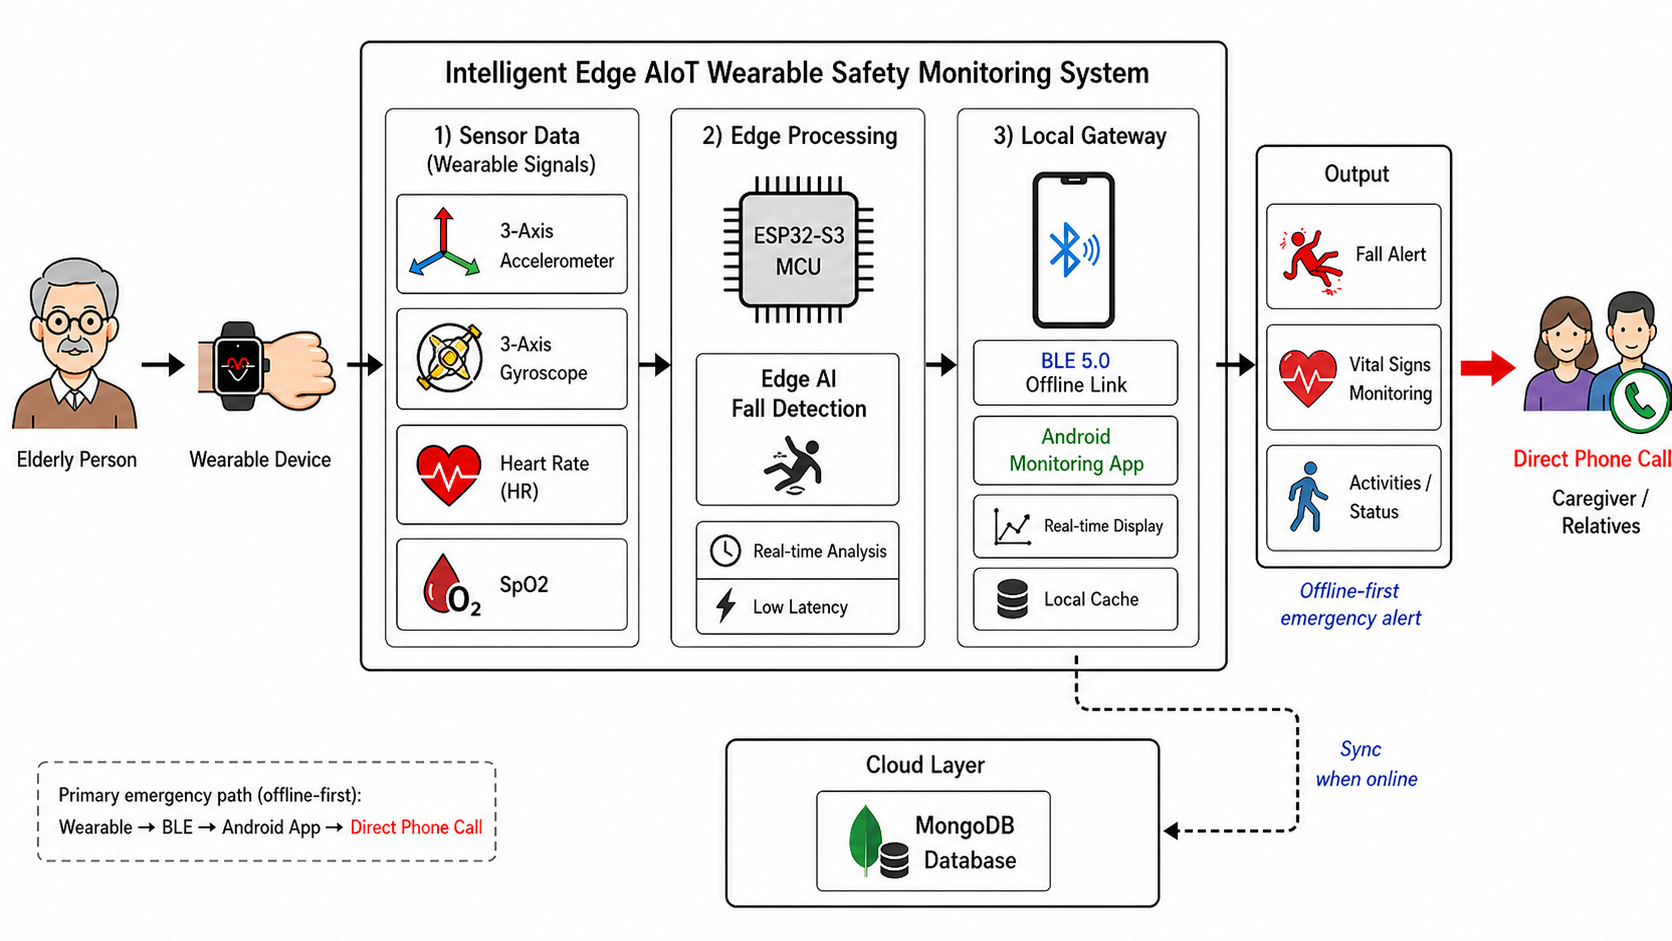
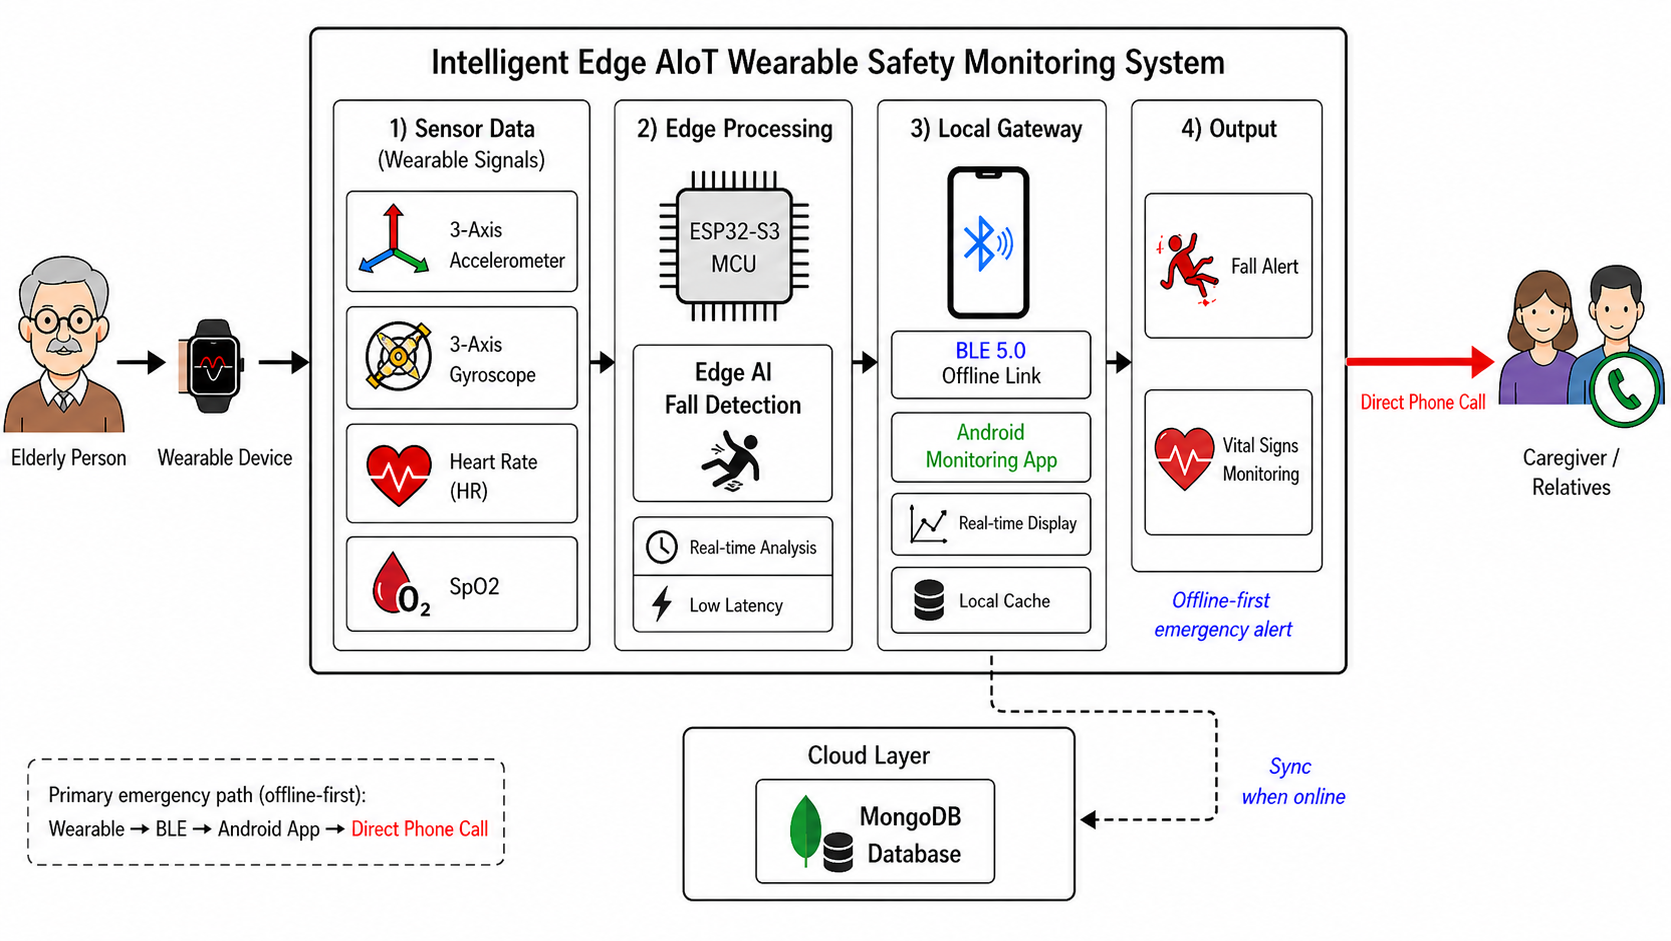
updated paper

Changed region(s): [[0.0, 0.0, 1.0, 0.9862], [0.0311, 0.8013, 0.3112, 0.9245], [0.778, 0.0308, 0.8091, 0.0616]]

diff --git a/paper/AIFD_wearable-device_VN.md b/paper/AIFD_wearable-device_VN.md
@@ -1,0 +1,80 @@
+# CareFall: Phát hiện Té ngã Tự động thông qua Thiết bị đeo và các Phương pháp AI
+
+**Tác giả:** Juan Carlos Ruiz-Garcia, Ruben Tolosana, Ruben Vera-Rodriguez, Carlos Moro
+**Đơn vị:** Đại học Tự hành Madrid (Universidad Autonoma de Madrid), Tây Ban Nha; Cartronic Group, Tây Ban Nha.
+**Email:** {juanc.ruiz, ruben.tolosana, ruben.vera}@uam.es; [email redacted]
+
+---
+
+## TÓM TẮT (ABSTRACT)
+Sự già hóa dân số đã dẫn đến số lượng các vụ té ngã ngày càng tăng trong xã hội, ảnh hưởng đến sức khỏe cộng đồng trên toàn thế giới. Bài báo này giới thiệu **CareFall**, một hệ thống phát hiện té ngã tự động (FDS) dựa trên các thiết bị đeo và các phương pháp Trí tuệ Nhân tạo (AI). CareFall xem xét các tín hiệu thời gian từ gia tốc kế (accelerometer) và con quay hồi chuyển (gyroscope) được trích xuất từ một chiếc đồng hồ thông minh (smartwatch). Hai phương pháp tiếp cận khác nhau được sử dụng để trích xuất đặc trưng và phân loại: i) dựa trên ngưỡng (threshold-based), và ii) dựa trên học máy (machine learning-based). Kết quả thực nghiệm trên hai cơ sở dữ liệu công khai cho thấy phương pháp dựa trên học máy - kết hợp thông tin từ cả gia tốc kế và con quay hồi chuyển - vượt trội hơn so với phương pháp dựa trên ngưỡng về độ chính xác (accuracy), độ nhạy (sensitivity) và độ đặc hiệu (specificity). Nghiên cứu này đóng góp vào việc thiết kế các giải pháp thông minh và thân thiện với người dùng nhằm giảm thiểu các hậu quả tiêu cực của việc té ngã ở người cao tuổi.
+
+---
+
+## 1. GIỚI THIỆU (INTRODUCTION)
+Sự già hóa dân số đang gia tăng trên toàn thế giới. Tổ chức Y tế Thế giới (WHO) coi té ngã ở người cao tuổi là một thách thức lớn đối với sức khỏe cộng đồng toàn cầu [20]. Trên thực tế, té ngã có thể ảnh hưởng tiêu cực đến chất lượng cuộc sống của người cao tuổi, gây ra các hậu quả nghiêm trọng về thể chất, tâm lý và xã hội, chẳng hạn như bầm tím, gãy xương, chấn thương, tổn thương vận động và thần kinh, hoặc thậm chí tử vong [2, 7, 25]. Vì lý do này, việc thiết kế và triển khai các công nghệ thân thiện với người dùng để phát hiện té ngã là vô cùng quan trọng.
+
+Trong những năm gần đây, các giải pháp như Hệ thống Đáp ứng Khẩn cấp Cá nhân (PERS) đã được đề xuất [3]. PERS là một hệ thống thủ công, theo đó một người sau khi ngã xuống đất phải nhấn nút cảnh báo (thường ở trong dây chuyền hoặc vòng tay), và một đội cấp cứu sẽ được cử đến ngay lập tức để hỗ trợ. Tuy nhiên, hệ thống này có thể không phải là một giải pháp tốt trong một số trường hợp, ví dụ như nếu người đó bị ngất hoặc mất ý thức do cú ngã và không thể nhấn nút khẩn cấp.
+
+Để khắc phục các hạn chế của PERS, nhiều loại Hệ thống Phát hiện Té ngã (FDS) đã được đề xuất trong thập kỷ qua, cung cấp các giải pháp tự động và thân thiện với người cao tuổi [7, 21]. Hầu hết các FDS dựa trên các thiết bị đeo [22], chẳng hạn như thắt lưng hoặc vòng tay tích hợp cảm biến gia tốc [16, 17, 24], các thiết bị dựa trên hình ảnh như camera giám sát trong nhà [11, 18], hoặc điện thoại thông minh [12, 15, 19], cùng nhiều loại khác.
+
+Bài báo này trình bày CareFall, một FDS tự động dựa trên các thiết bị đeo và các phương pháp Trí tuệ Nhân tạo (AI). Hình 1 cung cấp một mô tả đồ họa về CareFall. CareFall xem xét kịch bản trong đó đồng hồ thông minh được đeo trên cổ tay, thu thập thông tin liên quan đến các cảm biến quán tính của nó, chẳng hạn như gia tốc kế 3 trục và con quay hồi chuyển [8, 9], hoặc máy đo nhịp tim [13, 14]. Sau khi thông tin được thu thập bởi đồng hồ thông minh, các tín hiệu thời gian (tín hiệu gia tốc và con quay hồi chuyển) được sử dụng để trích xuất đặc trưng và phân loại. Hai phương pháp tiếp cận khác nhau được xem xét: i) dựa trên ngưỡng, và ii) dựa trên học máy. Trong trường hợp FDS phát hiện thấy một cú ngã, nó sẽ tự động cảnh báo cho các dịch vụ khẩn cấp.
+
+---
+
+## 2. PHƯƠNG PHÁP (METHODS)
+CareFall xem xét hai trong số các phương pháp phổ biến nhất để phát hiện té ngã trong tài liệu nghiên cứu [23]. Chúng được cung cấp dữ liệu từ các tín hiệu thời gian 3 trục của cảm biến gia tốc kế và con quay hồi chuyển. Tần số lấy mẫu của đồng hồ thông minh là từ 20-25Hz. Để phân tích đơn giản và theo thời gian thực, chúng tôi xem xét các cửa sổ thời gian riêng biệt dài **1 phút**.
+
+1.  **Dựa trên ngưỡng (Threshold-based):** Đây là một trong những giải pháp đơn giản nhất và ít tốn kém nhất về mặt tính toán để phát hiện té ngã. Nó dựa trên việc trích xuất các tín hiệu thời gian bổ sung từ các tín hiệu gia tốc và con quay hồi chuyển gốc như Vector Độ lớn Tín hiệu (SMV), Chỉ số Té ngã (FI) và Hướng dọc Tuyệt đối (AVD), cùng những chỉ số khác [4, 5]. Sau đó, một ngưỡng cụ thể được xác định cho mỗi chuỗi thời gian. Trong trường hợp giá trị tức thời của chuỗi thời gian vượt quá ngưỡng, đầu ra của hệ thống sẽ là "té ngã" (fall). Cần nhấn mạnh rằng, trong trường hợp xem xét đồng thời nhiều tín hiệu thời gian (ví dụ: SMV, FI và AVD), đầu ra cuối cùng của hệ thống sẽ dựa trên cơ chế biểu quyết đa số (majority voting) của tất cả các tín hiệu thời gian được xem xét.
+
+2.  **Dựa trên Học máy (Machine Learning-based):** Cách tiếp cận này tự động học các mẫu phân biệt cho nhiệm vụ bằng cách sử dụng dữ liệu. Từ 6 tín hiệu thời gian gốc (gia tốc kế 3 trục và con quay hồi chuyển) và 2 tín hiệu thời gian bổ sung (SMV của gia tốc và con quay hồi chuyển), chúng tôi trích xuất **11 đặc trưng toàn cục** cho mỗi cửa sổ thời gian (1 phút) liên quan đến thông tin thống kê: Trung bình (Mean), Phương sai (Variance), Trung vị (Median), Delta, Độ lệch chuẩn (Standard Deviation), Giá trị cực đại (Maximum Value), Giá trị cực tiểu (Minimum Value), Bách phân vị thứ 25, Bách phân vị thứ 75, Mật độ phổ công suất (PSD) và Entropy phổ công suất (PSE). Tổng cộng, chúng tôi thu được một vectơ đặc trưng với 44 đặc trưng toàn cục liên quan đến thông tin gia tốc kế và 44 đặc trưng toàn cục liên quan đến con quay hồi chuyển. Sau khi có vectơ đặc trưng với 88 đặc trưng toàn cục, chúng tôi huấn luyện các bộ phân loại học máy cho nhiệm vụ phát hiện té ngã. Các thuật toán được sử dụng rộng rãi nhất là K-Hàng xóm gần nhất (KNN) [27], Máy vectơ hỗ trợ (SVM) [10], Gradient Boosting (GB) [26], Rừng ngẫu nhiên (Random Forest - RF) [26] và Mạng nơ-ron nhân tạo (ANN) [1], cùng những thuật toán khác.
+
+---
+
+## 3. THIẾT LẬP THỰC NGHIỆM (EXPERIMENTAL SETUP)
+Hai cơ sở dữ liệu công khai phổ biến được xem xét trong khung thực nghiệm của bài báo: Erciyes University [27] và UMAFall [6]. Bảng 1 hiển thị thông tin liên quan nhất từ các cơ sở dữ liệu này: i) số lượng các Hoạt động Đời sống Hằng ngày (ADLs) như đi bộ, ngồi, nằm xuống, v.v., và các cú té ngã mô phỏng (ngã về phía trước, phía sau, sang bên, v.v.); ii) thông tin về người tham gia (số lượng, giới tính, chiều cao, cân nặng và độ tuổi); iii) loại tín hiệu thời gian thu được (gia tốc kế và con quay hồi chuyển); iv) vị trí cảm biến; và v) tần số lấy mẫu. Tiêu chí chính để lựa chọn các cơ sở dữ liệu này là vị trí của cảm biến (cổ tay), tần số lấy mẫu của cảm biến (20-25Hz) và tính đa dạng trong các loại hoạt động và té ngã.
+
+Về quy trình thực nghiệm, cả hai cơ sở dữ liệu được chia thành tập dữ liệu phát triển (80% người tham gia) và tập dữ liệu đánh giá cuối cùng (20% người tham gia còn lại). Do đó, các đối tượng khác nhau được xem xét cho việc huấn luyện và đánh giá cuối cùng của CareFall. Về các chỉ số, chúng tôi xem xét ba chỉ số phổ biến trong tài liệu nghiên cứu: Độ nhạy (Sensitivity - SE), Độ đặc hiệu (Specificity - SP) và Độ chính xác (Accuracy). SE đề cập đến xác suất phát hiện một cú té ngã, SP là xác suất phát hiện một trường hợp không té ngã (tức là ADLs), và độ chính xác đề cập đến hiệu suất tổng thể của hệ thống.
+
+---
+
+## 4. KẾT QUẢ THỰC NGHIỆM (EXPERIMENTAL RESULTS)
+Bảng 2 (phía trên) cho thấy kết quả của cơ sở dữ liệu Erciyes University trên tập đánh giá cuối cùng. Các kết quả được trình bày tương ứng với cấu hình tốt nhất của mỗi phương pháp phát hiện té ngã. Các kết quả thu được nói chung (độ chính xác) với phương pháp dựa trên ngưỡng kém hơn đáng kể so với phương pháp học máy (77.3% so với 98.4%), dẫn đến số lượng kết quả dương tính giả cao hơn (các trường hợp không té ngã bị phát hiện là té ngã). Xu hướng này có thể được quan sát bằng cách nhìn vào độ đặc hiệu (68.4% so với 96.7%). Tuy nhiên, điều thú vị cần lưu ý là phương pháp Ngưỡng vượt trội hơn phương pháp Học máy về độ nhạy (100% so với 98.9%), cho thấy đây là một cách tiếp cận đơn giản nhưng hiệu quả để phát hiện té ngã. Ngoài ra, khi phân tích phương pháp Học máy, chúng ta có thể thấy việc kết hợp thông tin gia tốc kế (44 đặc trưng toàn cục) và thông tin con quay hồi chuyển (44 đặc trưng toàn cục) đạt được kết quả tốt nhất.
+
+Cuối cùng, chúng ta cũng có thể thấy ở Bảng 2 (phía dưới) kết quả đạt được cho cơ sở dữ liệu công khai UMAFall. Các kết luận tương tự cũng thu được, mặc dù kết quả tốt hơn đạt được trên cơ sở dữ liệu Erciyes. Điều này có thể do chất lượng của thiết bị và quá trình thu thập dữ liệu. Điều này cho thấy rằng việc kết hợp thông tin gia tốc kế và con quay hồi chuyển là một phương pháp tốt cho nhiệm vụ phát hiện té ngã.
+
+---
+
+## 5. LỜI CẢM ƠN (ACKNOWLEDGMENTS)
+Công việc này được hỗ trợ bởi các dự án: INTER-ACTION (PID2021-126521OBI00 MICINN/FEDER), HumanCAIC (TED2021-131787BI00 MICINN), và Cartronic Group.
+
+---
+
+## TÀI LIỆU THAM KHẢO (REFERENCES)
+1. Abbate, S., et al. (2012). A Smartphone-Based Fall Detection System. Pervasive and Mobile Computing.
+2. Ambrose, A. F., et al. (2013). Risk Factors for Falls Among Older Adults: A Review of the Literature. Maturitas.
+3. Bourke, A.K., et al. (2007). Evaluation of a Threshold-Based Tri-Axial Accelerometer Fall Detection Algorithm. Gait & Posture.
+4. Casilari, E., & Oviedo-Jiménez, M. A. (2015). Automatic Fall Detection System Based on the Combined Use of a Smartphone and a Smartwatch. PLOS ONE.
+5. Casilari, E., et al. (2017). Analysis of Public Datasets for Wearable Fall Detection Systems. Sensors.
+6. Casilari, E., et al. (2017). UMAFall: A Multisensor Dataset for the Research on Automatic Fall Detection. Procedia Computer Science.
+7. Delahoz, Y. S., & Labrador, M. A. (2014). Survey on Fall Detection and Fall Prevention Using Wearable and External Sensors. Sensors.
+8. Delgado-Santos, P., et al. (2023). Exploring Transformers for Behavioural Biometrics: A Case Study in Gait Recognition. Pattern Recognition.
+9. Delgado-Santos, P., et al. (2022). GaitPrivacyON: Privacy-Preserving Mobile Gait Biometrics using Unsupervised Learning. Pattern Recognition Letters.
+10. Dinh, A., et al. (2009). Implementation of a Physical Activity Monitoring System for the Elderly People with Built-in Vital Sign and Fall Detection. ITNG.
+11. Galvão, Y. M., et al. (2021). A Multimodal Approach Using Deep Learning for Fall Detection. Expert Systems with Applications.
+12. Guvensan, M. A., et al. (2017). An Energy-Efficient Multi-Tier Architecture for Fall Detection on Smartphones. Sensors.
+13. Hernandez-Ortega, J., et al. (2020). Heart Rate Estimation from Face Videos for Student Assessment: Experiments on edBB. COMPSAC.
+14. Hernandez-Ortega, J., et al. (2021). DeepFakesON-Phys: DeepFakes Detection based on Heart Rate Estimation. AAAIw.
+15. Kau, L-J., & Chen, C-S. (2015). A Smart Phone-Based Pocket Fall Accident Detection, Positioning, and Rescue System. JBHI.
+16. Kwolek, B., & Kepski, M. (2014). Human Fall Detection on Embedded Platform Using Depth Maps and Wireless Accelerometer. CBMP.
+17. Martínez-Villaseñor, L., et al. (2019). UP-Fall Detection Dataset: A Multimodal Approach. Sensors.
+18. Mastorakis, G., et al. (2018). Fall Detection Without People: A Simulation Approach Tackling Video Data Scarcity. Expert Systems with Applications.
+19. Mellone, S., et al. (2012). Smartphone-Based Solutions for Fall Detection and Prevention: the FARSEEING Approach. ZGG.
+20. WHO (2017). Falls.
+21. Rashidi, P., & Mihailidis, A. (2013). A Survey on Ambient-Assisted Living Tools for Older Adults. JBHI.
+22. Romero-Tapiador, S., et al. (2023). AI4FoodDB: A Database for Personalized e-Health Nutrition and Lifestyle through Wearable Devices and AI. Database.
+23. Schwickert, L., et al. (2013). Fall Detection with Body-Worn Sensors. ZGG.
+24. Sucerquia, A., et al. (2017). SisFall: A Fall and Movement Dataset. Sensors.
+25. Zhang, Z., et al. (2015). A Survey on Vision-Based Fall Detection. PETRA.
+26. Zurbuchen, N., et al. (2021). A Machine Learning Multi-Class Approach for Fall Detection Systems Based on Wearable Sensors with a Study on Sampling Rates Selection. Sensors.
+27. Özdemir, A. T., & Barshan, B. (2014). Detecting Falls with Wearable Sensors Using Machine Learning Techniques. Sensors.